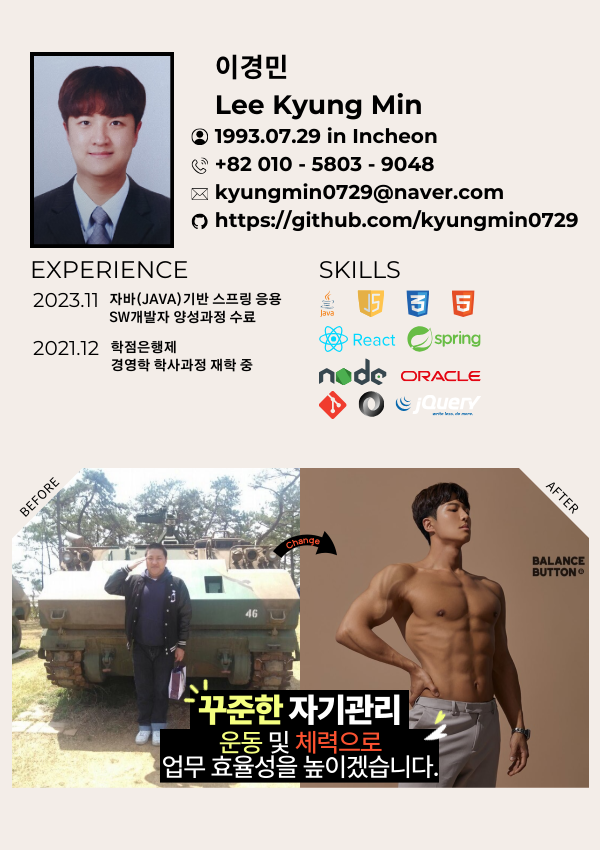
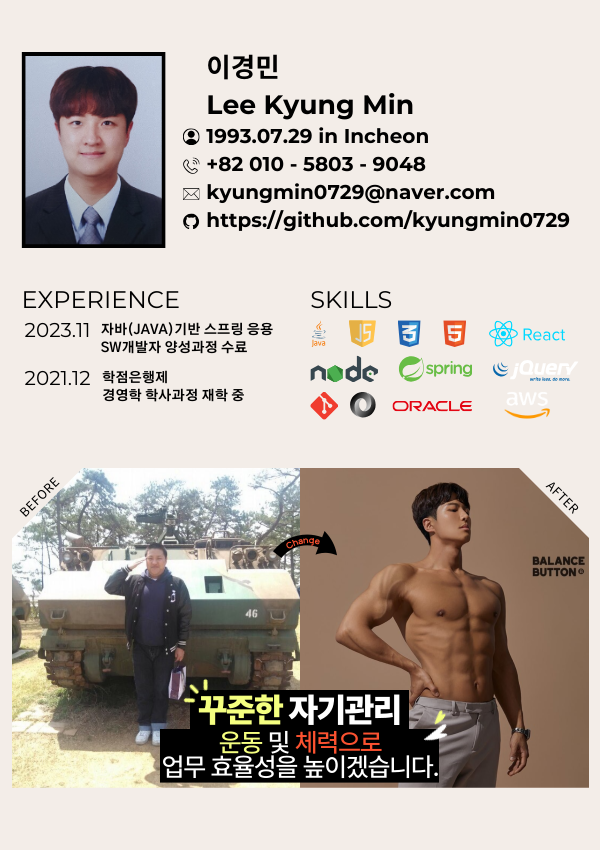
포트폴리오 사이트 수정

Changed region(s): [[0.03, 0.0612, 0.96, 0.4894], [0.51, 0.3059, 0.93, 0.4894], [0.9, 0.4282, 0.93, 0.4894]]

diff --git a/src/constants/index.js b/src/constants/index.js
@@ -35,13 +35,6 @@ export const siteText = [
     info: [],
   },
   {
-    text: ["Context API를 사용한 체크 리스트 프로그램"],
-    title: "todoList",
-    gitHub: "https://github.com/kyungmin0729/port2023-todo_FE",
-    view: "https://github.com/kyungmin0729/port2023-todo_FE/blob/master/README.md",
-    info: [],
-  },
-  {
     text: ["숙박 예약 기능 여행갈까 팀프로젝트"],
     title: "YeohaengGalkka-Project",
     gitHub: "https://github.com/kyungmin0729/port2023-TeamProject",
@@ -59,33 +52,18 @@ export const contactText = [
 
 export const footerText = [
   {
-    title: "portFolio2023",
-    desc: "포트폴리오 메인 사이트",
-    link: "https://github.com/kyungmin0729/port2023-react#readme",
+    title: "portfolio Main Site",
+    desc: "React.js를 활용한 사이트",
+    link: "https://github.com/kyungmin0729/port2023-MainPortSite/blob/master/README.md",
   },
   {
     title: "chatting",
     desc: "React(FE) + Spring boot(BE)를 활용한 채팅프로그램",
-    link: "https://github.com/kyungmin0729/port2023-chatting#readme",
+    link: "https://github.com/kyungmin0729/port2023-chatting/blob/master/README.md",
   },
   {
-    title: "board_BE",
-    desc: "Spring boot를 활용한 관리자 게시판 관리 프로그램",
-    link: "https://github.com/kyungmin0729/port2023-board_BE#readme",
-  },
-  {
-    title: "kanbanBoard_BE",
-    desc: "JSP를 활용한 회원 관리 및 게시글 등록/조회/수정/삭제 관리 프로그램",
-    link: "https://github.com/kyungmin0729/port2023-kanban_BE#readme",
-  },
-  {
-    title: "board_FE",
-    desc: "React.js를 활용한 로그인 및 회원가입 프로그램",
-    link: "https://github.com/kyungmin0729/port2023-board_FE#readme",
-  },
-  {
-    title: "todoList_FE",
-    desc: "Context API를 사용하여 전역 상태 관리를 활용한 체크 리스트 프로그램",
-    link: "https://github.com/kyungmin0729/port2023-todo_FE#readme",
+    title: "teamProject",
+    desc: "Springboot를 활용한 숙박 예약 기능 여행갈까 팀프로젝트",
+    link: "https://github.com/kyungmin0729/port2023-TeamProject/blob/master/README.md",
   },
 ];

diff --git a/src/Footer.js b/src/Footer.js
@@ -28,7 +28,13 @@ function Footer() {
             <ul>
               {footerText.map((footer, key) => (
                 <li key={key}>
-                  <a href={footer.link}>{footer.title}</a>
+                  <a
+                    href={footer.link}
+                    target="_blank"
+                    rel="noopener noreferrer"
+                  >
+                    {footer.title}
+                  </a>
                   <em>{footer.desc}</em>
                 </li>
               ))}

diff --git a/README.md b/README.md
@@ -4,138 +4,8 @@
 
 ## 프로젝트 개요
 
-### 결론
-
-**Express.js를 이용하여 proxy를 사용하여 React와 API 서버 간의 인터페이스를 형성하고 배포하려고 했지만**  
-**문제점을 파악하고 국비 강사님에게 도움을 요청하여 사이트를 구축했습니다. 이로 인해, 원활한 협업을 위해 코드 충돌을 방지하고 충돌이 발생한 코드 영역을 식별하며, 내용을 비교하여 해결 방법을 모색하고, 테스트와 배포 절차를 습득할 수 있었습니다.**
-
-### 나의 계획
-
-- Server단(express)과 Client단(react.js)으로 사이트 구성
-- proxy로 클라이언트와 API 서버 간의 인터페이스 형성
-- axios로 요청, 응답 처리
-- eslint, prettier를 이용하여 버그를 분석하여 해결하고 질 좋은 코드를 작성
-- node.js 형식으로 cafe24 호스팅 배포  
-  **React에서 CSR을 개발할 때는 일반적으로 외부 API 서버와의 연동을 통해 데이터를 주고받으며 구축한다는 것을 알게 되었습니다.**
+- 보충 수업을 통해 새로운 기술을 배우고 역량과 경험을 효과적으로 향상시키기 위해 React를 활용하여 만든 사이트
 
 ## 기술 스택
 
-### Server
-
-#### 구성도
-
-  <img width="1920" alt="Server 구성도" src="./src/assets/2.png">
-
-- express는 Node.js 기반의 웹 프레임워크로, 웹 애플리케이션 및 API를 개발하기 위해 사용됩니다.
-- nodemon는 개발 시 자동 재시작을 제공하는 도구입니다.
-- concurrently는 서버와 클라이언트를 동시에 실행할 수 있도록 도와줍니다.
-- proxy는 CORS 에러를 해결하여 클라이언트에 보다 안정적인 인터페이스를 제공할 수 있습니다.
-- http-proxy-middleware는 HTTP 요청을 프록시 서버로 전달하고 응답을 받을 수 있습니다.
-
-* 학습 : CORS는 왜 발생 하는가?  
-  ` 요청을 보내는 클라이언트 서버와 요청을 받는 서버의 도메인이 다를 때 생기는 문제`
-
-### Client
-
-#### 구성도
-
-  <img width="1920" alt="Client 구성도" src="./src/assets/1.png">
-
-- HTML, CSS 기반으로 웹사이트의 기본 레이아웃 설계하고, 웹 표준 및 웹 접근성을 준수하여 작업합니다.
-- react를 사용하여 사이트를 번들링하고 관리합니다.
-- gsap를 이용하여 패럴랙스 효과를 줍니다.
-- lenis를 이용하여 smooth 효과를 구현합니다.
-- http-proxy-middleware를 이용하여 효율적이고 유지보수를 향상시킵니다.
-- axios를 이용하여 클라이언트와 서버 간에 HTTP 요청을 보내고 응답을 받습니다.
-- cafe24를 통해 사이트를 배포합니다.
-- git을 사용하여 파일을 관리합니다.
-
-### eslint-config-prettier
-
-- eslint, prettier를 설치하여 코드분석의 편의성을 높입니다.
-- eslint-config-prettier를 설치하여 rule이 겹치는 충돌을 막습니다.
-
-## 프로젝트 실행
-
-### 배포 구성도
-
-  <img width="1920" alt="배포 구성도" src="./src/assets/3.png">
-
-### (중요) 초기설정
-
-- 카페24 배포 git 초기설정 (node.js 호스팅)
-
-* key를 생성합니다. (C:\Users\username\.ssh)  
-  `ssh-keygen -t rsa -C "키 명칭`
-* id_rsa.pub를 열고 카페24에 키를 등록합니다.
-* 앱 생성하고 key 할당으로 앱에 키를 등록합니다.
-* git remote 순서 client -> server -> cafe24 -> port2023-mainsite
-* git 최상위 폴더에 하위폴더에 화살표 표시가 날 경우 -> 이유: 해당폴더에 .git 폴더가 생겨서 문제 발생  
-  `해결: .git 파일제거 -> 스테이지 파일 제거 -> add, commit, push 진행`
-* 문제가 발생하는 디렉토리에서 .git 파일제거  
-  순서 (조회:ls -al -> 해당 파일 제거: rm -rf .git -> 확인: ls -al)
-  `ls -al`  
-   `rm -rf .git`  
-   `ls -al`
-* 스테이지에 존재하는 파일 제거  
-  순서 (git rm --cached . -rf -> git status)  
-  `git rm --cached . -rf`  
-  `git status`
-* add, comit, push 진행
-* git 초기 설정  
-  `git init`  
-  `git add .`  
-  `git commit -m ""`
-* 카페 24 연결 (저장소 이름 확인 git은 제외하고 복사)  
-  `git remote add cafe24 user@user01.cafe24app.com:user_user01`  
-  `git push cafe24 master`
-
-### Server
-
-- express, nodemon, concurrently를 설치합니다.  
-  `$ npm install nodemon concurrently`
-- http-proxy-middleware를 설치합니다.  
-  `npm install --save http-proxy-middleware `
-
-### Client
-
-- react-router-dom, sass, gsap, lenis를 설치합니다.  
-  `npm install react-router-dom sass gsap @studio-freight/lenis`
-- axios를 설치합니다.  
-  `npm install axios`
-- http-proxy-middleware를 설치합니다.  
-  `npm install --save-dev http-proxy-middleware`
-
-### prettier, eslint
-
-- pretteier를 설치합니다.  
-  `npm install prettier --save-dev`
-- eslint를 설치합니다.  
-  `npm install eslint --save-dev`
-- eslint-config-prettier를 설치합니다.  
-  `npm install eslint-config-prettier --save-dev`
-- node_modules > eslint-plugin-jsx-ally > .eslintrc에 코드를 추가합니다.  
-   `{
-  "plugins": [
-  "jsx-ally"
-],
-"rules": {
-  "jsx-a11y/rule-name": 2,
-  "react/prop-types": "off",
-  "no-var": "error",
-  "no-multiple-empty-lines": "error",
-  "no-console": "off",
-  "eqeqeq": "error",
-  "dot-notation": "error",
-  "no-unused-vars": "error"
-},
-"extends": [
-  "react-app",
-  "eslint:recommended",
-  "prettier",
-  "airbnb-base",
-  "plugin:jsx-a11y/recommended"
-]
-}`
-
-- Client 디렉토리 > .eslintrc.cjs에 .eslintr 에 있는 rules를 추가합니다.
+- React, AWS
